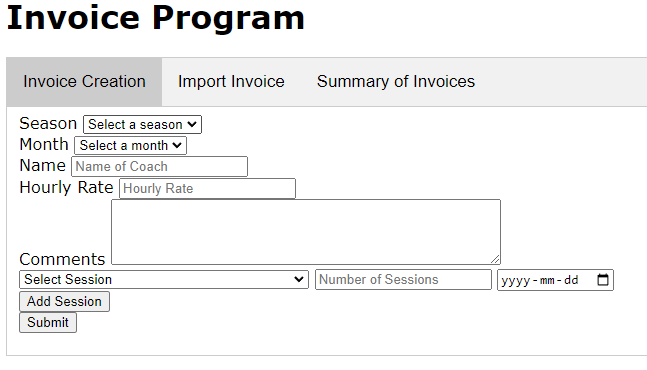
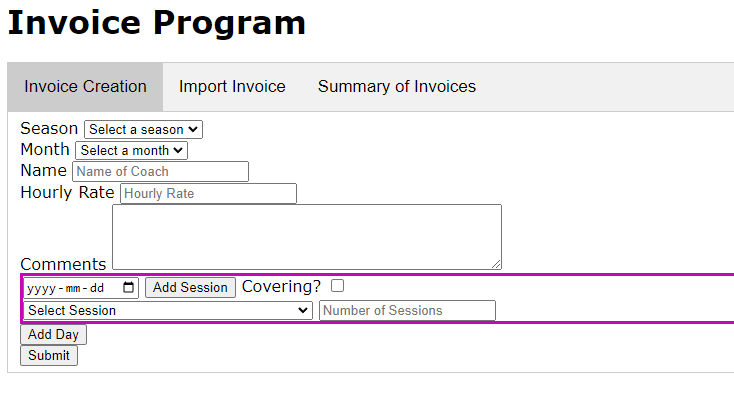
update read me

diff --git a/README.md b/README.md
@@ -4,18 +4,6 @@ A simple Flask-based web application to automate the creation, updating (through
 
 This application uses the Flask web framework, JQuery, MySQL, and custom python APIs used to interface and interact with openpyxl (to create and update invoices) and with SQL databases.
 
-There are two SQL tables being used: `list_invoices` and tables named based on the season.
-
-list_invoices table displays all invoices created and invoices uploaded, and then updated, through the application. Each row contains their respective season and month the invoice is for and their file download link.
-
-![Sample list_invoices table](https://github.com/superkor/Invoice-Program-V2/blob/main/images/list_invoices.png)
-
-The second table type is for holding session total data, separated into their respective season.
-
-An example is the 2022-2023 table that holds all invoices created and updated through the application. Each row contains total sessions for each type of possible sessions that can be on the invoice (PCS, CS, FZ, NV, JR, PEP, AD, PW, ST, CIR, RPT, INTER). The Hours column is simply the total hours spent working in that month based on the total number of sessions worked.
-
-![Sample `'2022-2023'` table](https://github.com/superkor/Invoice-Program-V2/blob/main/images/2022-2023_table.png)
-
 ## Usage
 
 Required libraries: Flask, mysql.connector, werkzeug, openpyxl, shutil, jQuery. Also requires MySQL (using MySQL Server 8.0).
@@ -52,7 +40,7 @@ Based on the season, the dropdown will show possible sessions that can be select
 For example, doing a "Fun Zone" session twice in a day on Jan 18, 2023 should be inputed like:
 ![Session Example](https://github.com/superkor/Invoice-Program-V2/blob/main/images/sessionExample.png)
 
-Clicking on `Add Session` will add another row to add another session input.
+Clicking on `Add Session` will add another row to add another session input for the same day. Clicking on `Add Day` will add another box to add sessions done on a different day.
 
 The Date selector on each session row will be locked to the month and season you have selected. Months September to December will take the first year in the season. January to August will take the second year in the season. For example Decemeber in season 2022-2023 will be Dec 2022 but May in season 2022-2023 will be May 2023.
 
@@ -62,8 +50,6 @@ Upon clicking Submit and when the invoice has been created, user will be redirec
 ![Confirm Example](https://github.com/superkor/Invoice-Program-V2/blob/main/images/invoicecreated.png)
 
 The created invoice (server side) is located in `invoice/output`. Invoice file name will be `{Month} {Year} Invoice.xlxx`, with the year based on the season and month selected.
-
-The Program will generate an date-session dictionary between client and server in the form of: `sessionData = {<date1>: {'sessions': {'session0': {'type': <sessionType>, 'amount': <sessionAmount>}}, 'cover': <coachName>}}, <date2>: {...}, ...}`. However, the invoice dictionary (containing other information like season, month, name, etc), will be in the form of `{"season": <season>, "month": <month>, "name": <name>, "comments": <comments>, "sessions": sessionData}`
 
 ### Viewing the Created Invoice
 
@@ -82,9 +68,26 @@ In the `list_invoices` table, the created invoice will be shown:
 In the season `2022-2023` table, the total sessions done will be shown:
 ![2022-2023 table example](https://github.com/superkor/Invoice-Program-V2/blob/main/images/sampleseason.png)
 
-WIP
+### Uploading an Invoice
 
+Under the `Import Invoice` tab, a prompt allows a user to upload a valid invoice.
+![Import Invoice Page](https://github.com/superkor/Invoice-Program-V2/blob/main/images/importpage.png)
 
-- User is able to create invoices through this application to automate the tedious tasks of filling in the invoice and timesheet. Program will automatically select the correct template that is correct for the season and fill in the information given by user. All created invoices will be added to a database to be displayed to show the summary of invoices and some data analysis.
-- improves intial invoice program by adding in summary of created invoices (adding in some analytical data into it)
-- uses python (using flask framework), html/css/js, and sql to store created invoices
+Uploading an invoice will automatically get the information from the invoice and display it to the user to allow them to update the invoice. Uploading the invoice (with or without modification) will update the SQL table.
+![Sample Import Invoice Page](https://github.com/superkor/Invoice-Program-V2/blob/main/images/sampleimport.png)
+
+### Summary of Invoices
+
+Under the `Summary of Invoices` tab, user is shown season buttons to view summary of all uploaded and created invoices.
+![Summary of Invoices Page](https://github.com/superkor/Invoice-Program-V2/blob/main/images/summarypage.png)
+
+Clicking on `2022-2023` will show a table of months and their respective number of sessions, a graph showing the amonut of sessions per month, and options to downloading, deleting, and updating an invoice.
+![Summary 1](https://github.com/superkor/Invoice-Program-V2/blob/main/images/summary1.png)
+![Summary 2](https://github.com/superkor/Invoice-Program-V2/blob/main/images/summary2.png)
+
+Clicking `Update Invoice` will redirect to the Import Invoice tab with the selected invoice's information.
+![Update Example](https://github.com/superkor/Invoice-Program-V2/blob/main/images/updateinvoice.png)
+
+Clicking on `Click Here to access {Season} {Month} Invoice` will download the invoice file.
+
+Clicking on `Delete Invoice` under a specific month will delete the invoice from the server and all tables in the database.
